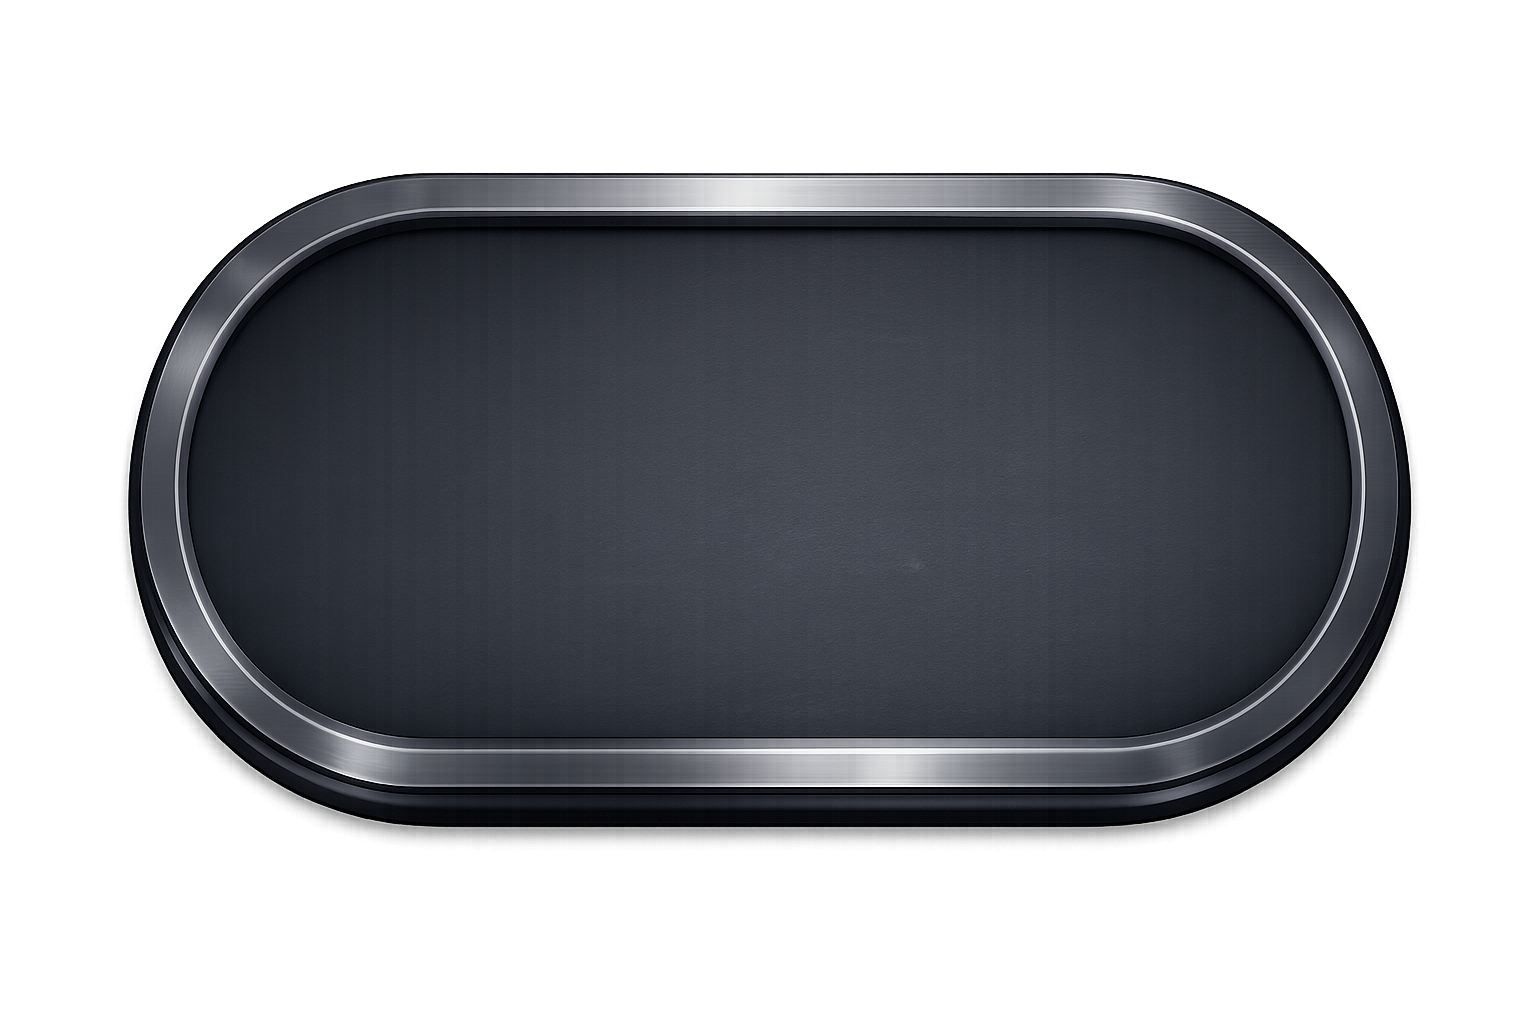
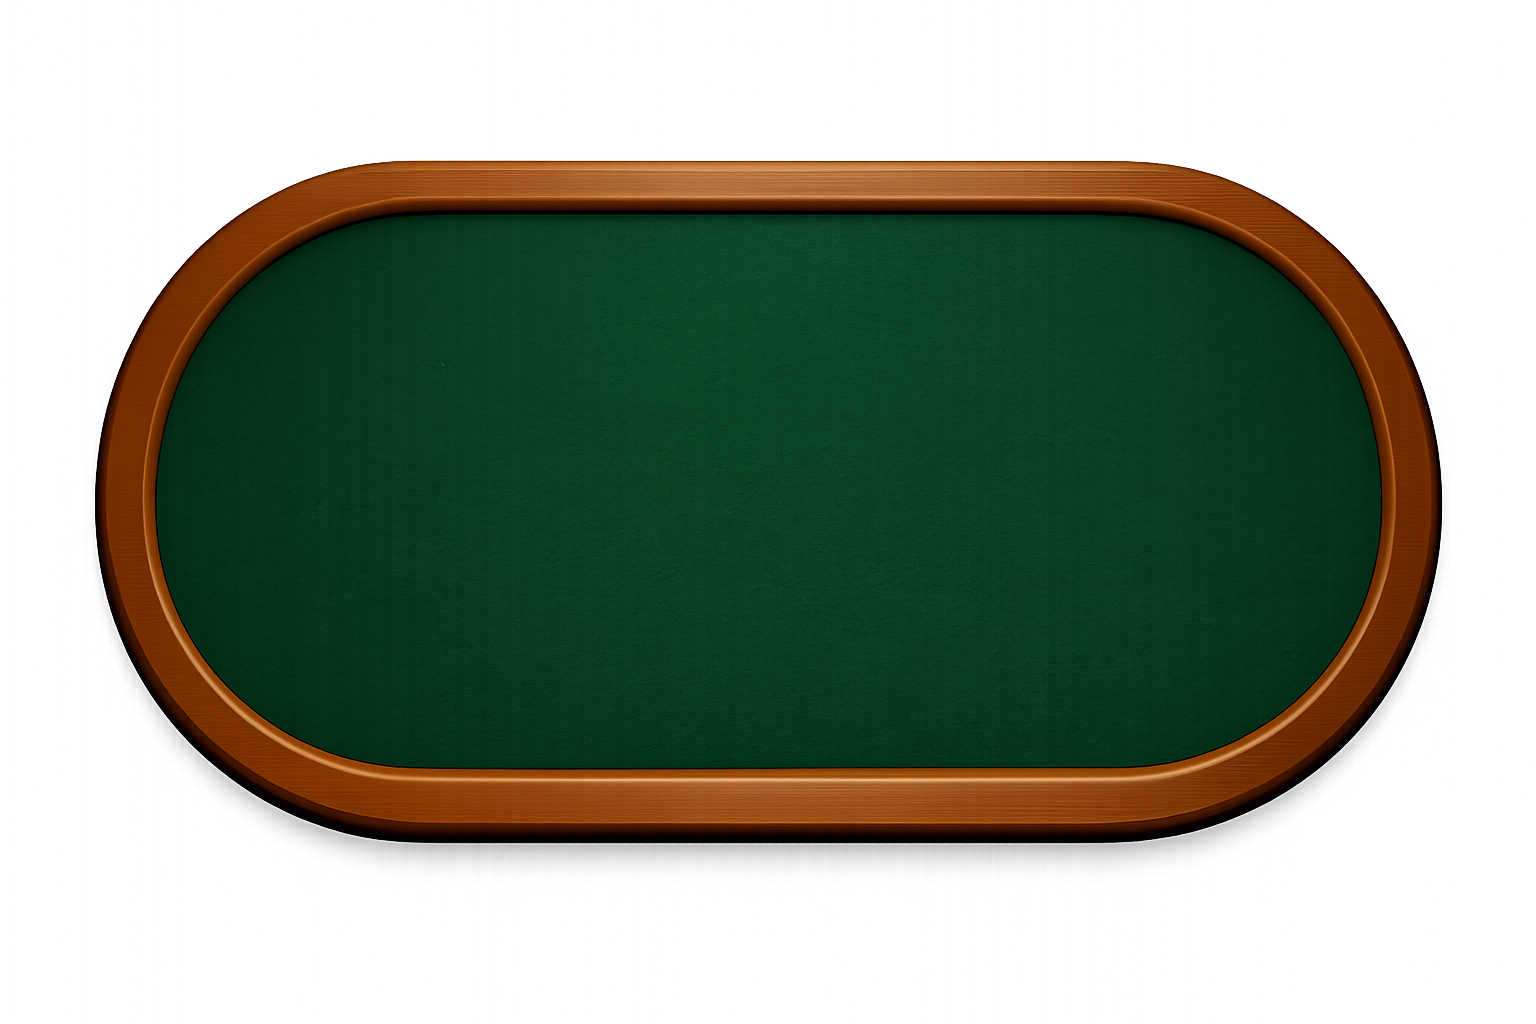
Swap table defaults: table2 becomes Table 1 default

diff --git a/miko-ui/src/managers/AssetManager.ts b/miko-ui/src/managers/AssetManager.ts
@@ -27,7 +27,7 @@ export class AssetManager {
     manifest.push({ alias: 'card_back', src: 'assets/card_back.png' });
 
     // Table and UI
-    manifest.push({ alias: 'table', src: 'assets/table.png' });
+    manifest.push({ alias: 'table', src: 'assets/table1.png' });
     manifest.push({ alias: 'table2', src: 'assets/table2.png' });
     manifest.push({ alias: 'dealer_button', src: 'assets/dealer_button.png' });
     manifest.push({ alias: 'start_screen', src: 'assets/start_screen.png' });

diff --git a/nova/changelog/20260313/20260313_0517_CHANGELOG.md b/nova/changelog/20260313/20260313_0517_CHANGELOG.md
@@ -1,0 +1,20 @@
+# Swap table defaults — table2 becomes Table 1 default — 20260313.0517
+
+## Summary
+Swapped the table assets so the previously-Table 2 image is now the default Table 1, and the original table becomes Table 2. Renamed table.png → table2.png and table2.png → table1.png. Updated AssetManager src path accordingly.
+
+## Files Changed
+
+### Modified
+- **miko-ui/static/assets/table1.png** — Renamed from table2.png (now the default Table 1)
+- **miko-ui/static/assets/table2.png** — Renamed from table.png (now Table 2)
+- **miko-ui/src/managers/AssetManager.ts** — Updated 'table' alias src from table.png to table1.png
+
+## Test results
+- `npm test`: 3 suites, 54 passed, 0 failed
+
+## Git Commit Hash
+`TBD`
+
+## Status
+✅ Completed
